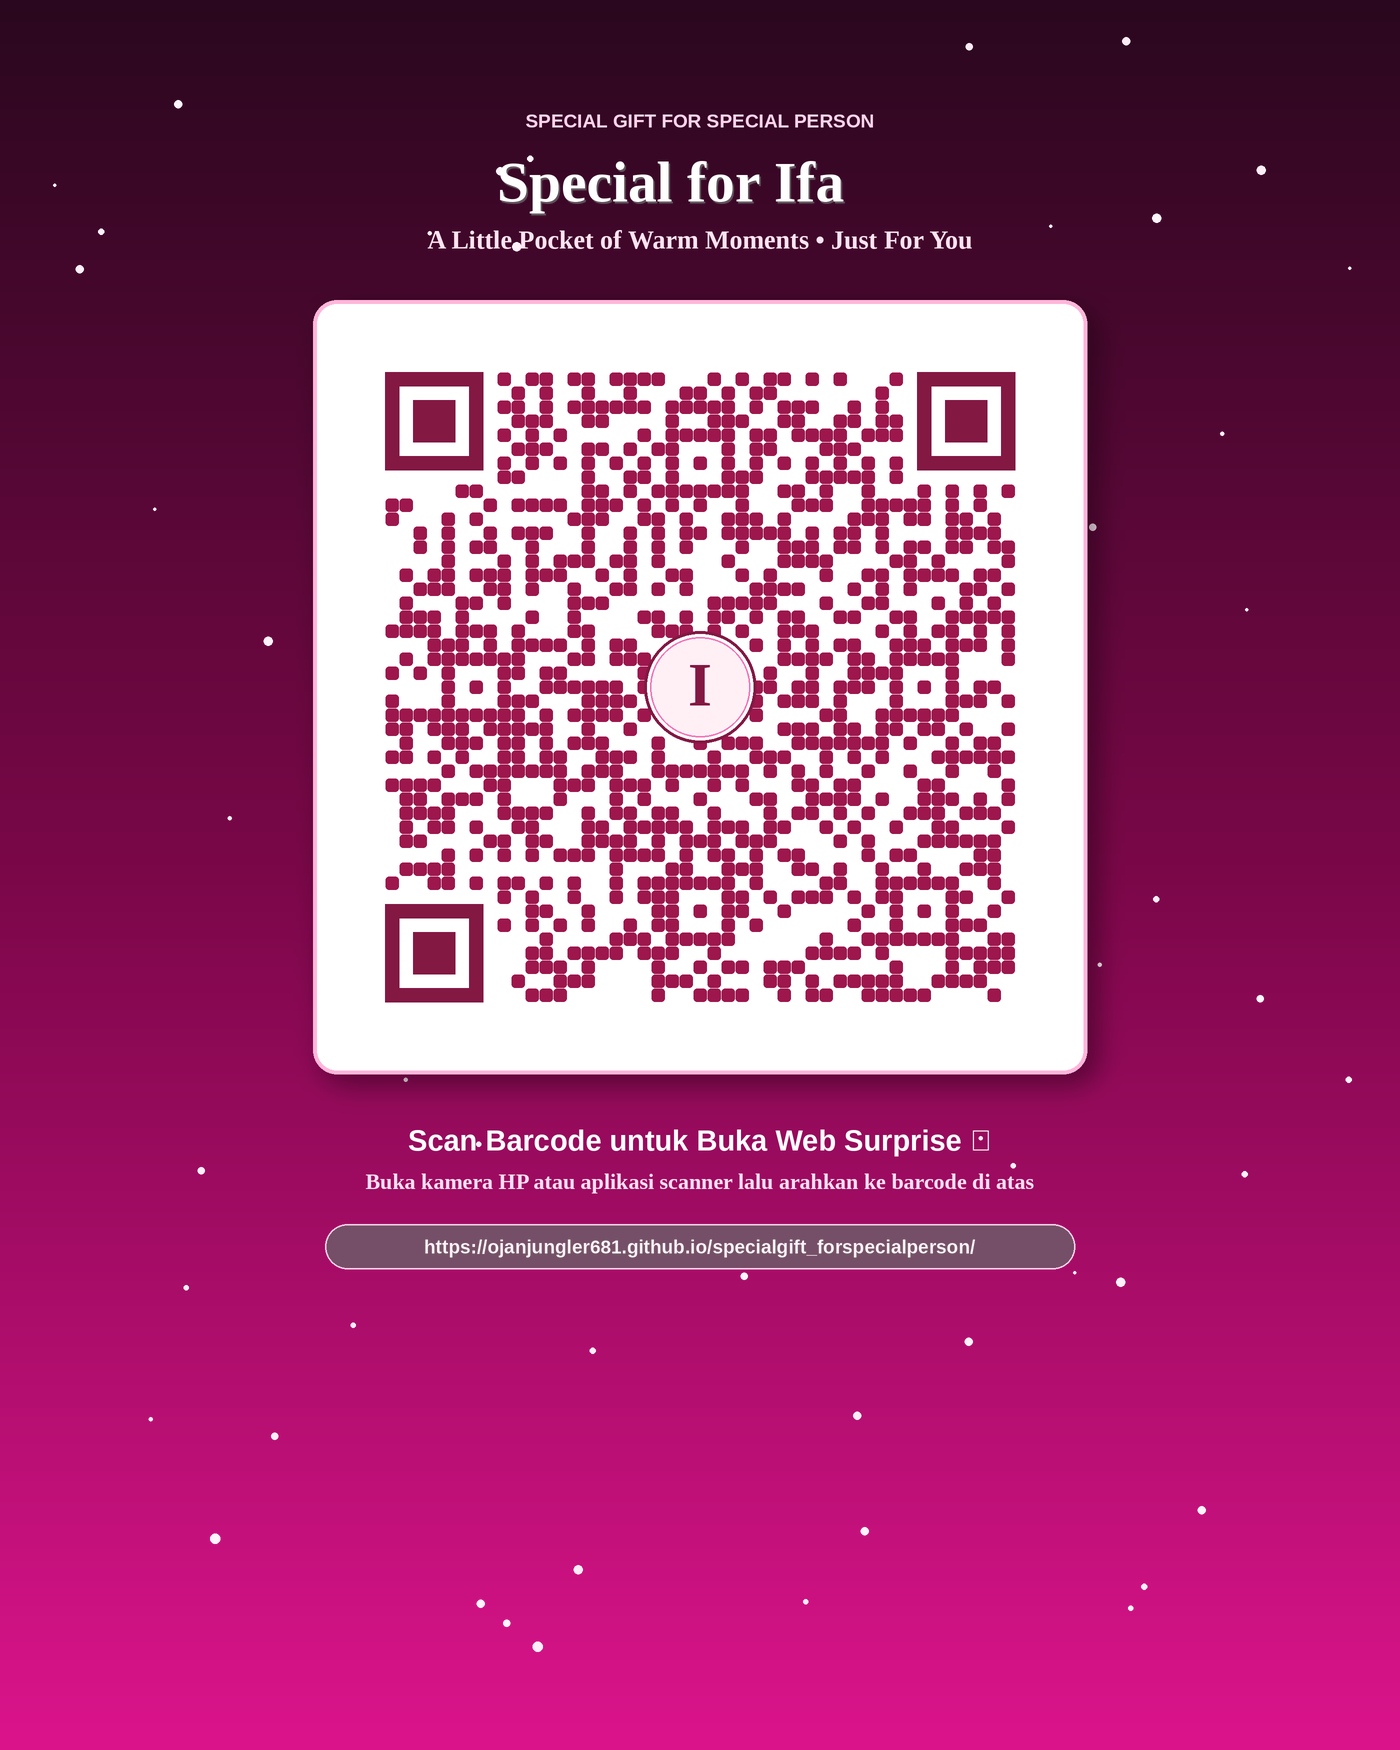
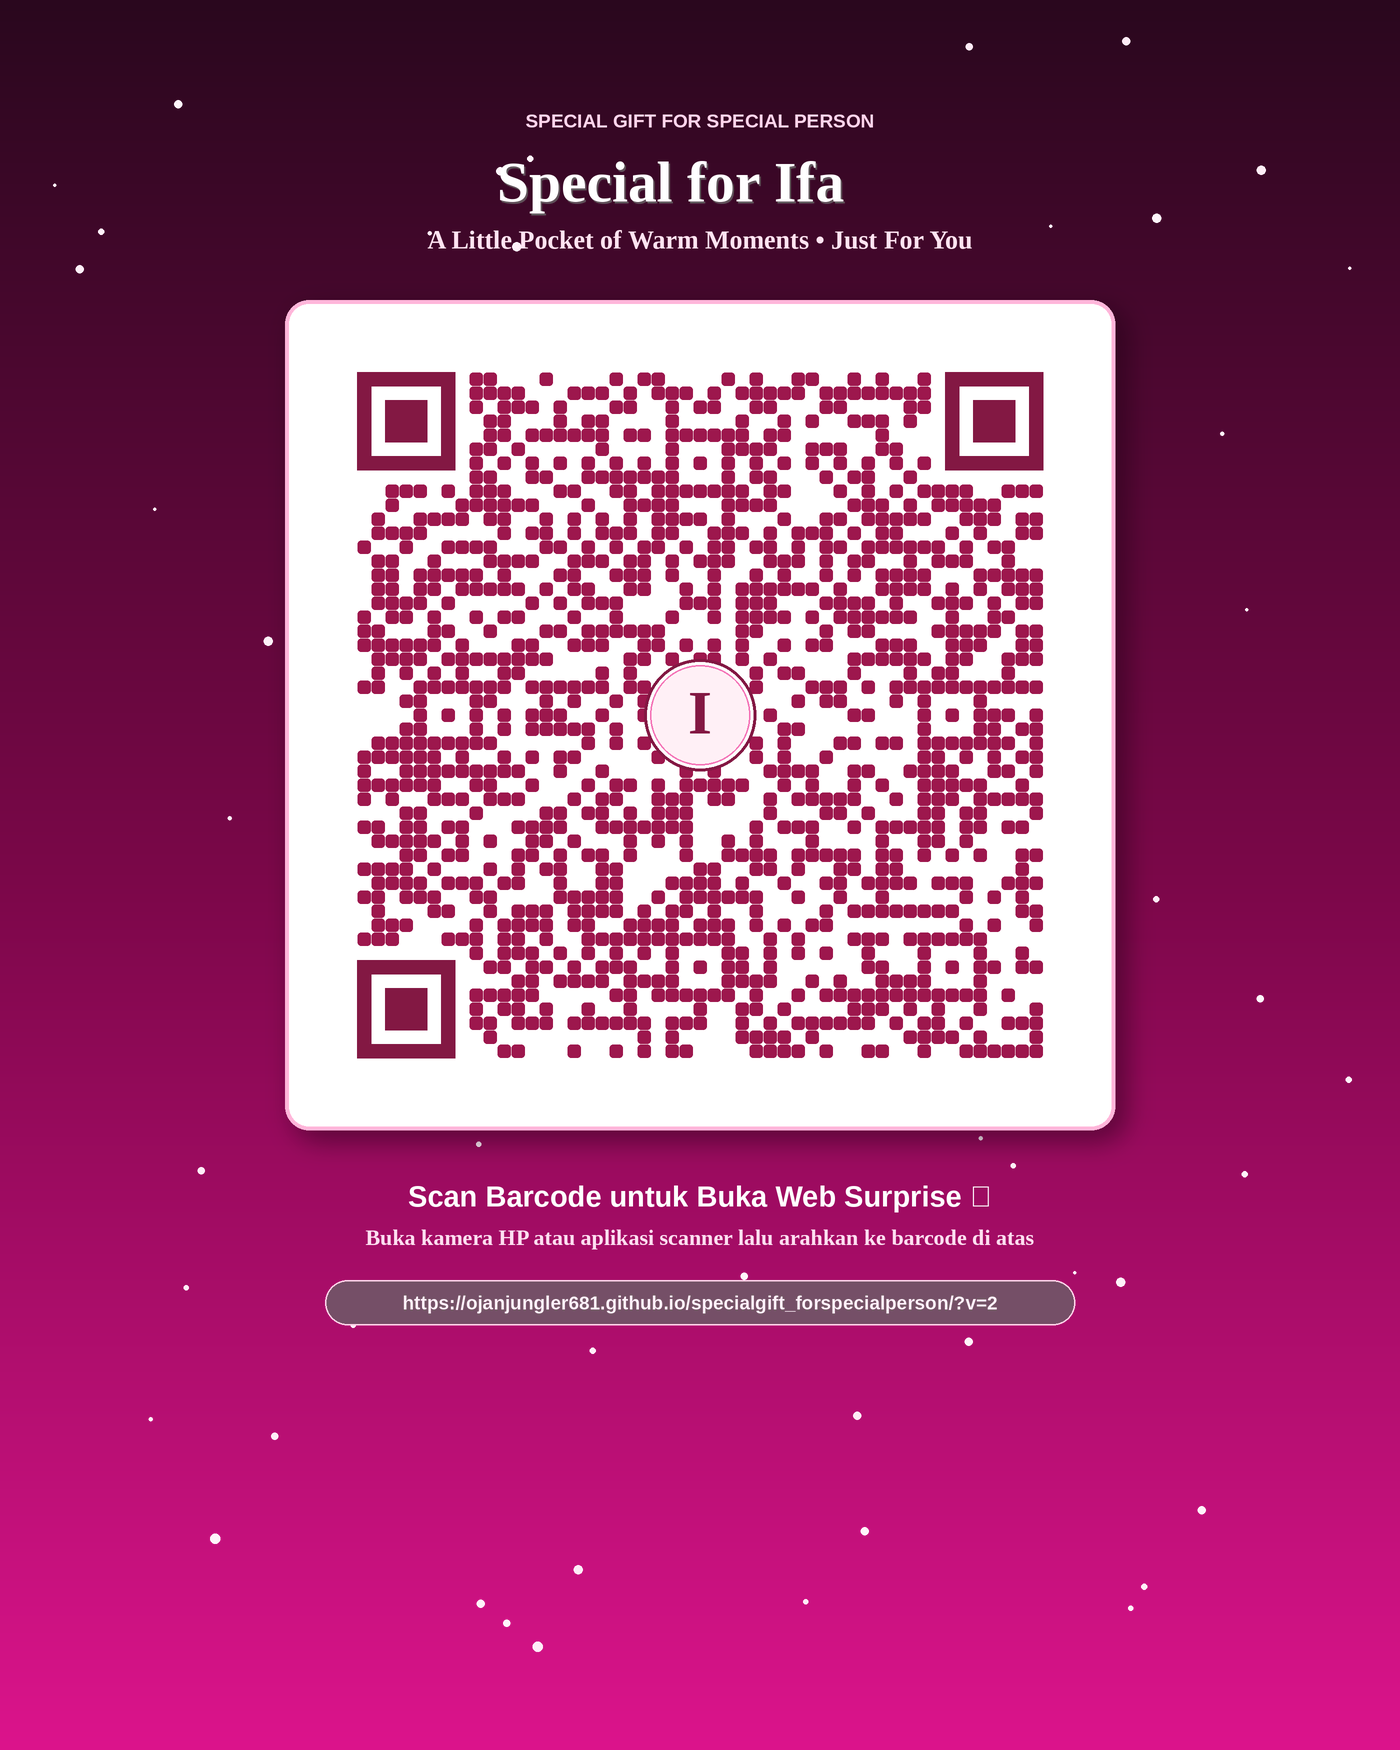
Add cache-busters and ifa photo paths to force instant browser refresh

Changed region(s): [[0.1843, 0.1543, 0.8293, 0.7714]]

diff --git a/404.html b/404.html
@@ -9,7 +9,10 @@
   <meta property="og:description" content="Tap to open a small collection of moments, music, and wishes.">
   <meta property="og:type" content="website">
   <title>A Surprise for Nazira</title>
-  <link rel="stylesheet" href="./styles.css">
+  <meta http-equiv="Cache-Control" content="no-cache, no-store, must-revalidate">
+  <meta http-equiv="Pragma" content="no-cache">
+  <meta http-equiv="Expires" content="0">
+  <link rel="stylesheet" href="./styles.css?v=2">
 </head>
 <body>
   <div class="ambient" aria-hidden="true">
@@ -22,9 +25,9 @@
   <main id="app">
     <section class="page page-intro is-active" data-page="intro" aria-labelledby="intro-title">
       <div class="intro-collage" aria-hidden="true">
-        <figure class="mini-photo mini-a"><img src="./assets/photos/nazira-01.jpeg" alt="Nazira lovely portrait"></figure>
-        <figure class="mini-photo mini-b"><img src="./assets/photos/nazira-06.jpeg" alt="Nazira smiling collage"></figure>
-        <figure class="mini-photo mini-c"><img src="./assets/photos/nazira-05.jpeg" alt="Nazira portrait"></figure>
+        <figure class="mini-photo mini-a"><img src="./assets/photos/ifa-01.jpeg?v=2" alt="Nazira lovely portrait"></figure>
+        <figure class="mini-photo mini-b"><img src="./assets/photos/ifa-06.jpeg?v=2" alt="Nazira smiling collage"></figure>
+        <figure class="mini-photo mini-c"><img src="./assets/photos/ifa-05.jpeg?v=2" alt="Nazira portrait"></figure>
         <span class="rose rose-a">🌹</span><span class="rose rose-b">🌸</span>
         <span class="butterfly">❦</span>
       </div>
@@ -82,10 +85,10 @@
         <p>Different days, different colors, still the same warm light.</p>
       </div>
       <div class="journey-track">
-        <article class="journey-item"><img src="./assets/photos/nazira-04.jpeg" alt="Nazira in uniform"><div><span>01</span><h3>Brave beginnings</h3><p>For every day you chose to show up and keep moving.</p></div></article>
-        <article class="journey-item"><img src="./assets/photos/nazira-03.jpeg" alt="Nazira at an evening café"><div><span>02</span><h3>Soft afternoons</h3><p>For the quiet moments that somehow become unforgettable.</p></div></article>
-        <article class="journey-item"><img src="./assets/photos/nazira-02.jpeg" alt="Nazira beneath city lights"><div><span>03</span><h3>Golden evenings</h3><p>For finding beauty in places that others may pass by.</p></div></article>
-        <article class="journey-item"><img src="./assets/photos/nazira-06.jpeg" alt="Nazira's joyful collage"><div><span>04</span><h3>Being yourself</h3><p>For the playful, honest side that makes every story yours.</p></div></article>
+        <article class="journey-item"><img src="./assets/photos/ifa-04.jpeg?v=2" alt="Nazira in uniform"><div><span>01</span><h3>Brave beginnings</h3><p>For every day you chose to show up and keep moving.</p></div></article>
+        <article class="journey-item"><img src="./assets/photos/ifa-03.jpeg?v=2" alt="Nazira at an evening café"><div><span>02</span><h3>Soft afternoons</h3><p>For the quiet moments that somehow become unforgettable.</p></div></article>
+        <article class="journey-item"><img src="./assets/photos/ifa-02.jpeg?v=2" alt="Nazira beneath city lights"><div><span>03</span><h3>Golden evenings</h3><p>For finding beauty in places that others may pass by.</p></div></article>
+        <article class="journey-item"><img src="./assets/photos/ifa-06.jpeg?v=2" alt="Nazira's joyful collage"><div><span>04</span><h3>Being yourself</h3><p>For the playful, honest side that makes every story yours.</p></div></article>
       </div>
     </section>
 
@@ -97,12 +100,12 @@
         <p>Tap a photograph to see it closer.</p>
       </div>
       <div class="polaroid-wall">
-        <button class="polaroid tilt-left" data-photo="./assets/photos/nazira-01.jpeg" type="button"><img src="./assets/photos/nazira-01.jpeg" alt="Portrait of Nazira"><span>flower bloom</span></button>
-        <button class="polaroid tilt-right" data-photo="./assets/photos/nazira-02.jpeg" type="button"><img src="./assets/photos/nazira-02.jpeg" alt="Nazira beneath city lights"><span>night glow</span></button>
-        <button class="polaroid tilt-left" data-photo="./assets/photos/nazira-03.jpeg" type="button"><img src="./assets/photos/nazira-03.jpeg" alt="Nazira at a café"><span>café pause</span></button>
-        <button class="polaroid tilt-right" data-photo="./assets/photos/nazira-04.jpeg" type="button"><img src="./assets/photos/nazira-04.jpeg" alt="Portrait of Nazira in uniform"><span>sweet spirit</span></button>
-        <button class="polaroid tilt-left" data-photo="./assets/photos/nazira-05.jpeg" type="button"><img src="./assets/photos/nazira-05.jpeg" alt="Close-up portrait of Nazira"><span>gentle gaze</span></button>
-        <button class="polaroid tilt-right" data-photo="./assets/photos/nazira-06.jpeg" type="button"><img src="./assets/photos/nazira-06.jpeg" alt="A collage of Nazira"><span>four smiles</span></button>
+        <button class="polaroid tilt-left" data-photo="./assets/photos/ifa-01.jpeg?v=2" type="button"><img src="./assets/photos/ifa-01.jpeg?v=2" alt="Portrait of Nazira"><span>flower bloom</span></button>
+        <button class="polaroid tilt-right" data-photo="./assets/photos/ifa-02.jpeg?v=2" type="button"><img src="./assets/photos/ifa-02.jpeg?v=2" alt="Nazira beneath city lights"><span>night glow</span></button>
+        <button class="polaroid tilt-left" data-photo="./assets/photos/ifa-03.jpeg?v=2" type="button"><img src="./assets/photos/ifa-03.jpeg?v=2" alt="Nazira at a café"><span>café pause</span></button>
+        <button class="polaroid tilt-right" data-photo="./assets/photos/ifa-04.jpeg?v=2" type="button"><img src="./assets/photos/ifa-04.jpeg?v=2" alt="Portrait of Nazira in uniform"><span>sweet spirit</span></button>
+        <button class="polaroid tilt-left" data-photo="./assets/photos/ifa-05.jpeg?v=2" type="button"><img src="./assets/photos/ifa-05.jpeg?v=2" alt="Close-up portrait of Nazira"><span>gentle gaze</span></button>
+        <button class="polaroid tilt-right" data-photo="./assets/photos/ifa-06.jpeg?v=2" type="button"><img src="./assets/photos/ifa-06.jpeg?v=2" alt="A collage of Nazira"><span>four smiles</span></button>
       </div>
     </section>
 
@@ -121,8 +124,8 @@
         </div>
         <div class="playlist-decor" aria-hidden="true">
           <div class="large-record"><i></i></div>
-          <div class="photo-frame frame-one"><img src="./assets/photos/nazira-01.jpeg" alt=""></div>
-          <div class="photo-frame frame-two"><img src="./assets/photos/nazira-06.jpeg" alt=""></div>
+          <div class="photo-frame frame-one"><img src="./assets/photos/ifa-01.jpeg?v=2" alt=""></div>
+          <div class="photo-frame frame-two"><img src="./assets/photos/ifa-06.jpeg?v=2" alt=""></div>
           <div class="neon-notes">♫ ♪ ♫</div>
         </div>
       </div>
@@ -143,7 +146,7 @@
           <p>May the days ahead bring you countless wonderful stories, exciting new opportunities, and happiness that comes naturally without ever having to force it.</p>
           <p class="letter-close">Always here for you, Ifa.<br><strong>Keep shining in your own beautiful way. ♡</strong></p>
         </article>
-        <div class="portrait-frame"><img src="./assets/photos/nazira-05.jpeg" alt="Ifa"></div>
+        <div class="portrait-frame"><img src="./assets/photos/ifa-05.jpeg?v=2" alt="Ifa"></div>
       </div>
     </section>
   </main>
@@ -156,11 +159,11 @@
 
   <dialog class="lightbox" aria-label="Photo preview">
     <button class="lightbox-close" type="button" aria-label="Close photo">×</button>
-    <img src="./assets/photos/nazira-05.jpeg" alt="Selected memory of Nazira">
+    <img src="./assets/photos/ifa-05.jpeg?v=2" alt="Selected memory of Nazira">
   </dialog>
 
   <div class="confetti-layer" aria-hidden="true"></div>
 
-  <script src="./app.js"></script>
+  <script src="./app.js?v=2"></script>
 </body>
 </html>

diff --git a/index.html b/index.html
@@ -9,7 +9,10 @@
   <meta property="og:description" content="Tap to open a small collection of moments, music, and wishes.">
   <meta property="og:type" content="website">
   <title>A Surprise for Nazira</title>
-  <link rel="stylesheet" href="./styles.css">
+  <meta http-equiv="Cache-Control" content="no-cache, no-store, must-revalidate">
+  <meta http-equiv="Pragma" content="no-cache">
+  <meta http-equiv="Expires" content="0">
+  <link rel="stylesheet" href="./styles.css?v=2">
 </head>
 <body>
   <div class="ambient" aria-hidden="true">
@@ -22,9 +25,9 @@
   <main id="app">
     <section class="page page-intro is-active" data-page="intro" aria-labelledby="intro-title">
       <div class="intro-collage" aria-hidden="true">
-        <figure class="mini-photo mini-a"><img src="./assets/photos/nazira-01.jpeg" alt="Nazira lovely portrait"></figure>
-        <figure class="mini-photo mini-b"><img src="./assets/photos/nazira-06.jpeg" alt="Nazira smiling collage"></figure>
-        <figure class="mini-photo mini-c"><img src="./assets/photos/nazira-05.jpeg" alt="Nazira portrait"></figure>
+        <figure class="mini-photo mini-a"><img src="./assets/photos/ifa-01.jpeg?v=2" alt="Nazira lovely portrait"></figure>
+        <figure class="mini-photo mini-b"><img src="./assets/photos/ifa-06.jpeg?v=2" alt="Nazira smiling collage"></figure>
+        <figure class="mini-photo mini-c"><img src="./assets/photos/ifa-05.jpeg?v=2" alt="Nazira portrait"></figure>
         <span class="rose rose-a">🌹</span><span class="rose rose-b">🌸</span>
         <span class="butterfly">❦</span>
       </div>
@@ -82,10 +85,10 @@
         <p>Different days, different colors, still the same warm light.</p>
       </div>
       <div class="journey-track">
-        <article class="journey-item"><img src="./assets/photos/nazira-04.jpeg" alt="Nazira in uniform"><div><span>01</span><h3>Brave beginnings</h3><p>For every day you chose to show up and keep moving.</p></div></article>
-        <article class="journey-item"><img src="./assets/photos/nazira-03.jpeg" alt="Nazira at an evening café"><div><span>02</span><h3>Soft afternoons</h3><p>For the quiet moments that somehow become unforgettable.</p></div></article>
-        <article class="journey-item"><img src="./assets/photos/nazira-02.jpeg" alt="Nazira beneath city lights"><div><span>03</span><h3>Golden evenings</h3><p>For finding beauty in places that others may pass by.</p></div></article>
-        <article class="journey-item"><img src="./assets/photos/nazira-06.jpeg" alt="Nazira's joyful collage"><div><span>04</span><h3>Being yourself</h3><p>For the playful, honest side that makes every story yours.</p></div></article>
+        <article class="journey-item"><img src="./assets/photos/ifa-04.jpeg?v=2" alt="Nazira in uniform"><div><span>01</span><h3>Brave beginnings</h3><p>For every day you chose to show up and keep moving.</p></div></article>
+        <article class="journey-item"><img src="./assets/photos/ifa-03.jpeg?v=2" alt="Nazira at an evening café"><div><span>02</span><h3>Soft afternoons</h3><p>For the quiet moments that somehow become unforgettable.</p></div></article>
+        <article class="journey-item"><img src="./assets/photos/ifa-02.jpeg?v=2" alt="Nazira beneath city lights"><div><span>03</span><h3>Golden evenings</h3><p>For finding beauty in places that others may pass by.</p></div></article>
+        <article class="journey-item"><img src="./assets/photos/ifa-06.jpeg?v=2" alt="Nazira's joyful collage"><div><span>04</span><h3>Being yourself</h3><p>For the playful, honest side that makes every story yours.</p></div></article>
       </div>
     </section>
 
@@ -97,12 +100,12 @@
         <p>Tap a photograph to see it closer.</p>
       </div>
       <div class="polaroid-wall">
-        <button class="polaroid tilt-left" data-photo="./assets/photos/nazira-01.jpeg" type="button"><img src="./assets/photos/nazira-01.jpeg" alt="Portrait of Nazira"><span>flower bloom</span></button>
-        <button class="polaroid tilt-right" data-photo="./assets/photos/nazira-02.jpeg" type="button"><img src="./assets/photos/nazira-02.jpeg" alt="Nazira beneath city lights"><span>night glow</span></button>
-        <button class="polaroid tilt-left" data-photo="./assets/photos/nazira-03.jpeg" type="button"><img src="./assets/photos/nazira-03.jpeg" alt="Nazira at a café"><span>café pause</span></button>
-        <button class="polaroid tilt-right" data-photo="./assets/photos/nazira-04.jpeg" type="button"><img src="./assets/photos/nazira-04.jpeg" alt="Portrait of Nazira in uniform"><span>sweet spirit</span></button>
-        <button class="polaroid tilt-left" data-photo="./assets/photos/nazira-05.jpeg" type="button"><img src="./assets/photos/nazira-05.jpeg" alt="Close-up portrait of Nazira"><span>gentle gaze</span></button>
-        <button class="polaroid tilt-right" data-photo="./assets/photos/nazira-06.jpeg" type="button"><img src="./assets/photos/nazira-06.jpeg" alt="A collage of Nazira"><span>four smiles</span></button>
+        <button class="polaroid tilt-left" data-photo="./assets/photos/ifa-01.jpeg?v=2" type="button"><img src="./assets/photos/ifa-01.jpeg?v=2" alt="Portrait of Nazira"><span>flower bloom</span></button>
+        <button class="polaroid tilt-right" data-photo="./assets/photos/ifa-02.jpeg?v=2" type="button"><img src="./assets/photos/ifa-02.jpeg?v=2" alt="Nazira beneath city lights"><span>night glow</span></button>
+        <button class="polaroid tilt-left" data-photo="./assets/photos/ifa-03.jpeg?v=2" type="button"><img src="./assets/photos/ifa-03.jpeg?v=2" alt="Nazira at a café"><span>café pause</span></button>
+        <button class="polaroid tilt-right" data-photo="./assets/photos/ifa-04.jpeg?v=2" type="button"><img src="./assets/photos/ifa-04.jpeg?v=2" alt="Portrait of Nazira in uniform"><span>sweet spirit</span></button>
+        <button class="polaroid tilt-left" data-photo="./assets/photos/ifa-05.jpeg?v=2" type="button"><img src="./assets/photos/ifa-05.jpeg?v=2" alt="Close-up portrait of Nazira"><span>gentle gaze</span></button>
+        <button class="polaroid tilt-right" data-photo="./assets/photos/ifa-06.jpeg?v=2" type="button"><img src="./assets/photos/ifa-06.jpeg?v=2" alt="A collage of Nazira"><span>four smiles</span></button>
       </div>
     </section>
 
@@ -121,8 +124,8 @@
         </div>
         <div class="playlist-decor" aria-hidden="true">
           <div class="large-record"><i></i></div>
-          <div class="photo-frame frame-one"><img src="./assets/photos/nazira-01.jpeg" alt=""></div>
-          <div class="photo-frame frame-two"><img src="./assets/photos/nazira-06.jpeg" alt=""></div>
+          <div class="photo-frame frame-one"><img src="./assets/photos/ifa-01.jpeg?v=2" alt=""></div>
+          <div class="photo-frame frame-two"><img src="./assets/photos/ifa-06.jpeg?v=2" alt=""></div>
           <div class="neon-notes">♫ ♪ ♫</div>
         </div>
       </div>
@@ -143,7 +146,7 @@
           <p>May the days ahead bring you countless wonderful stories, exciting new opportunities, and happiness that comes naturally without ever having to force it.</p>
           <p class="letter-close">Always here for you, Ifa.<br><strong>Keep shining in your own beautiful way. ♡</strong></p>
         </article>
-        <div class="portrait-frame"><img src="./assets/photos/nazira-05.jpeg" alt="Ifa"></div>
+        <div class="portrait-frame"><img src="./assets/photos/ifa-05.jpeg?v=2" alt="Ifa"></div>
       </div>
     </section>
   </main>
@@ -156,11 +159,11 @@
 
   <dialog class="lightbox" aria-label="Photo preview">
     <button class="lightbox-close" type="button" aria-label="Close photo">×</button>
-    <img src="./assets/photos/nazira-05.jpeg" alt="Selected memory of Nazira">
+    <img src="./assets/photos/ifa-05.jpeg?v=2" alt="Selected memory of Nazira">
   </dialog>
 
   <div class="confetti-layer" aria-hidden="true"></div>
 
-  <script src="./app.js"></script>
+  <script src="./app.js?v=2"></script>
 </body>
 </html>
